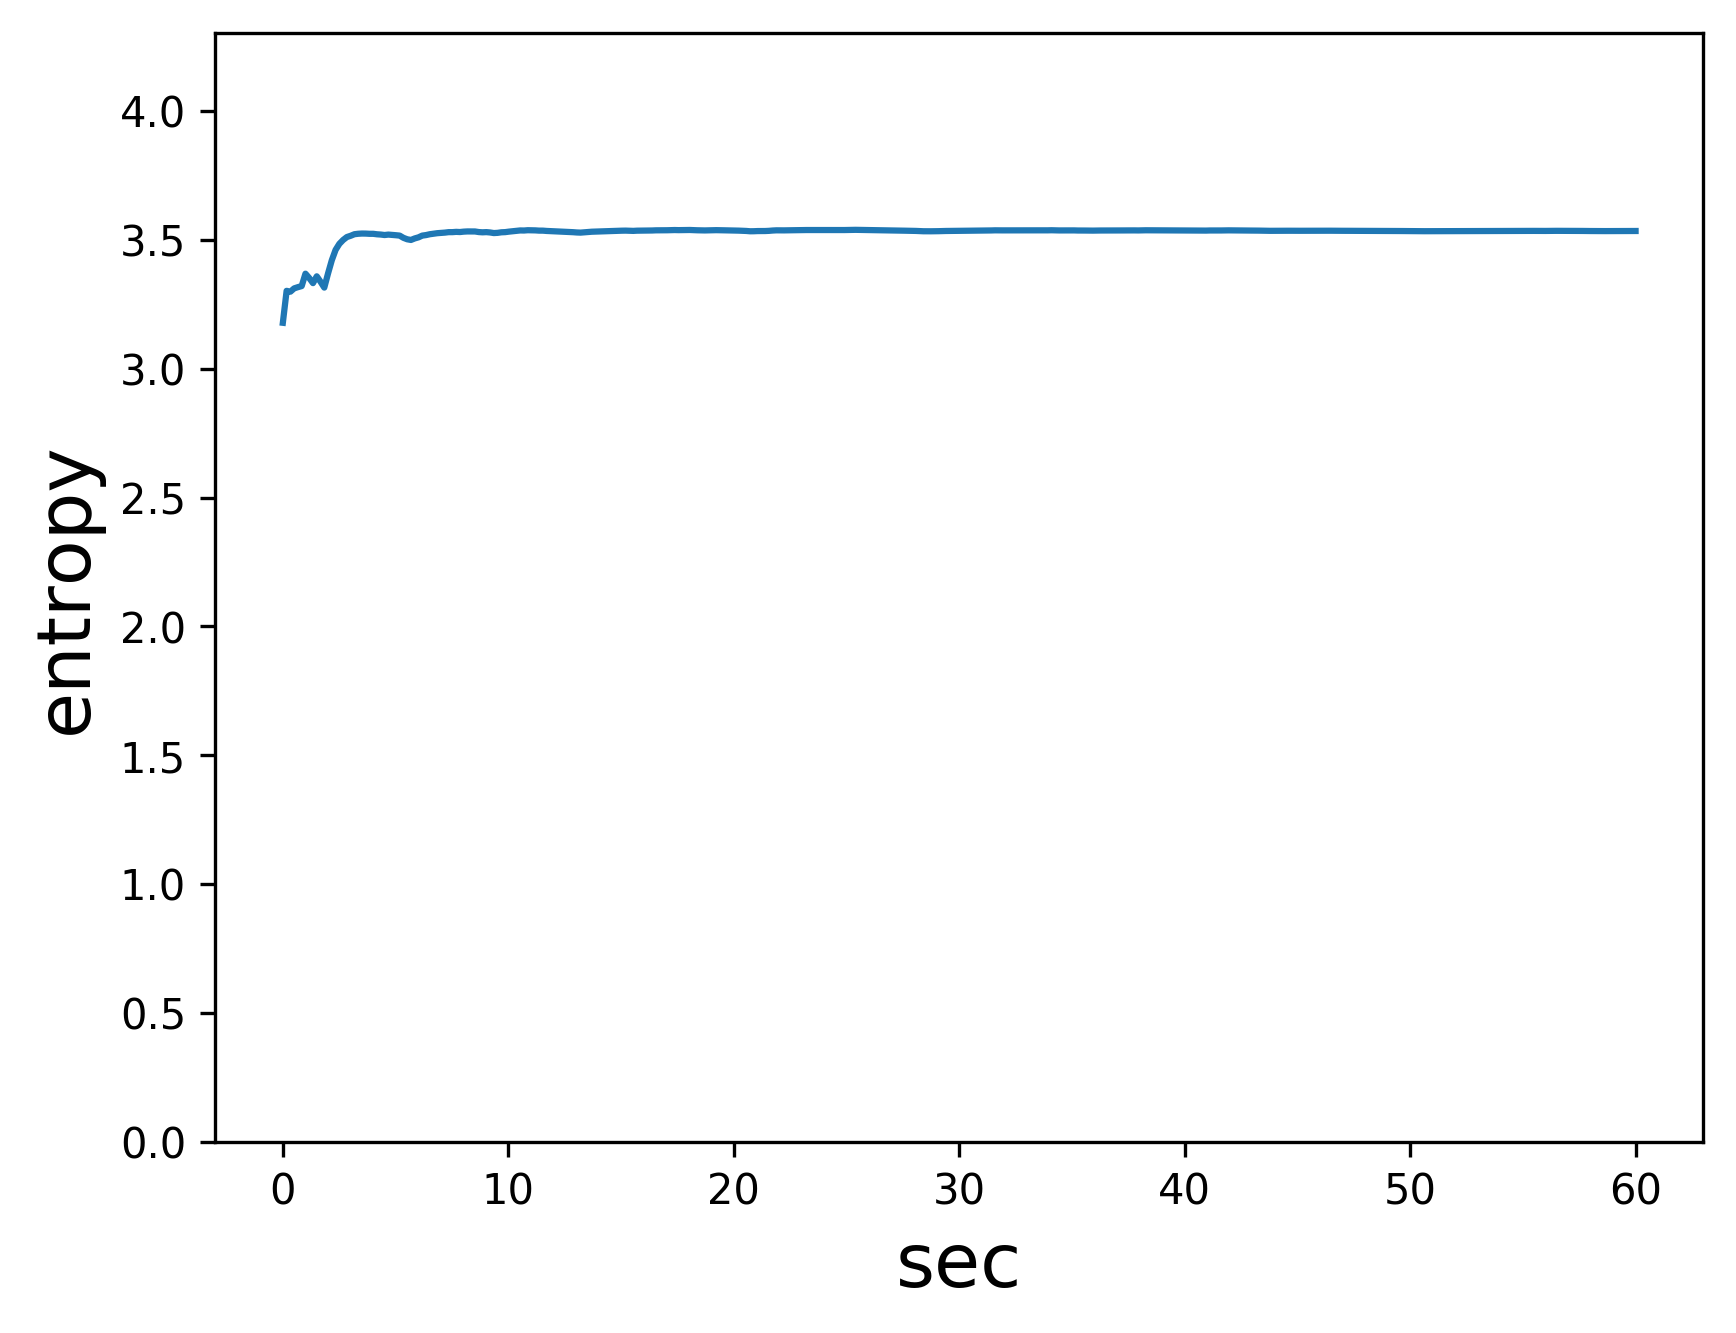
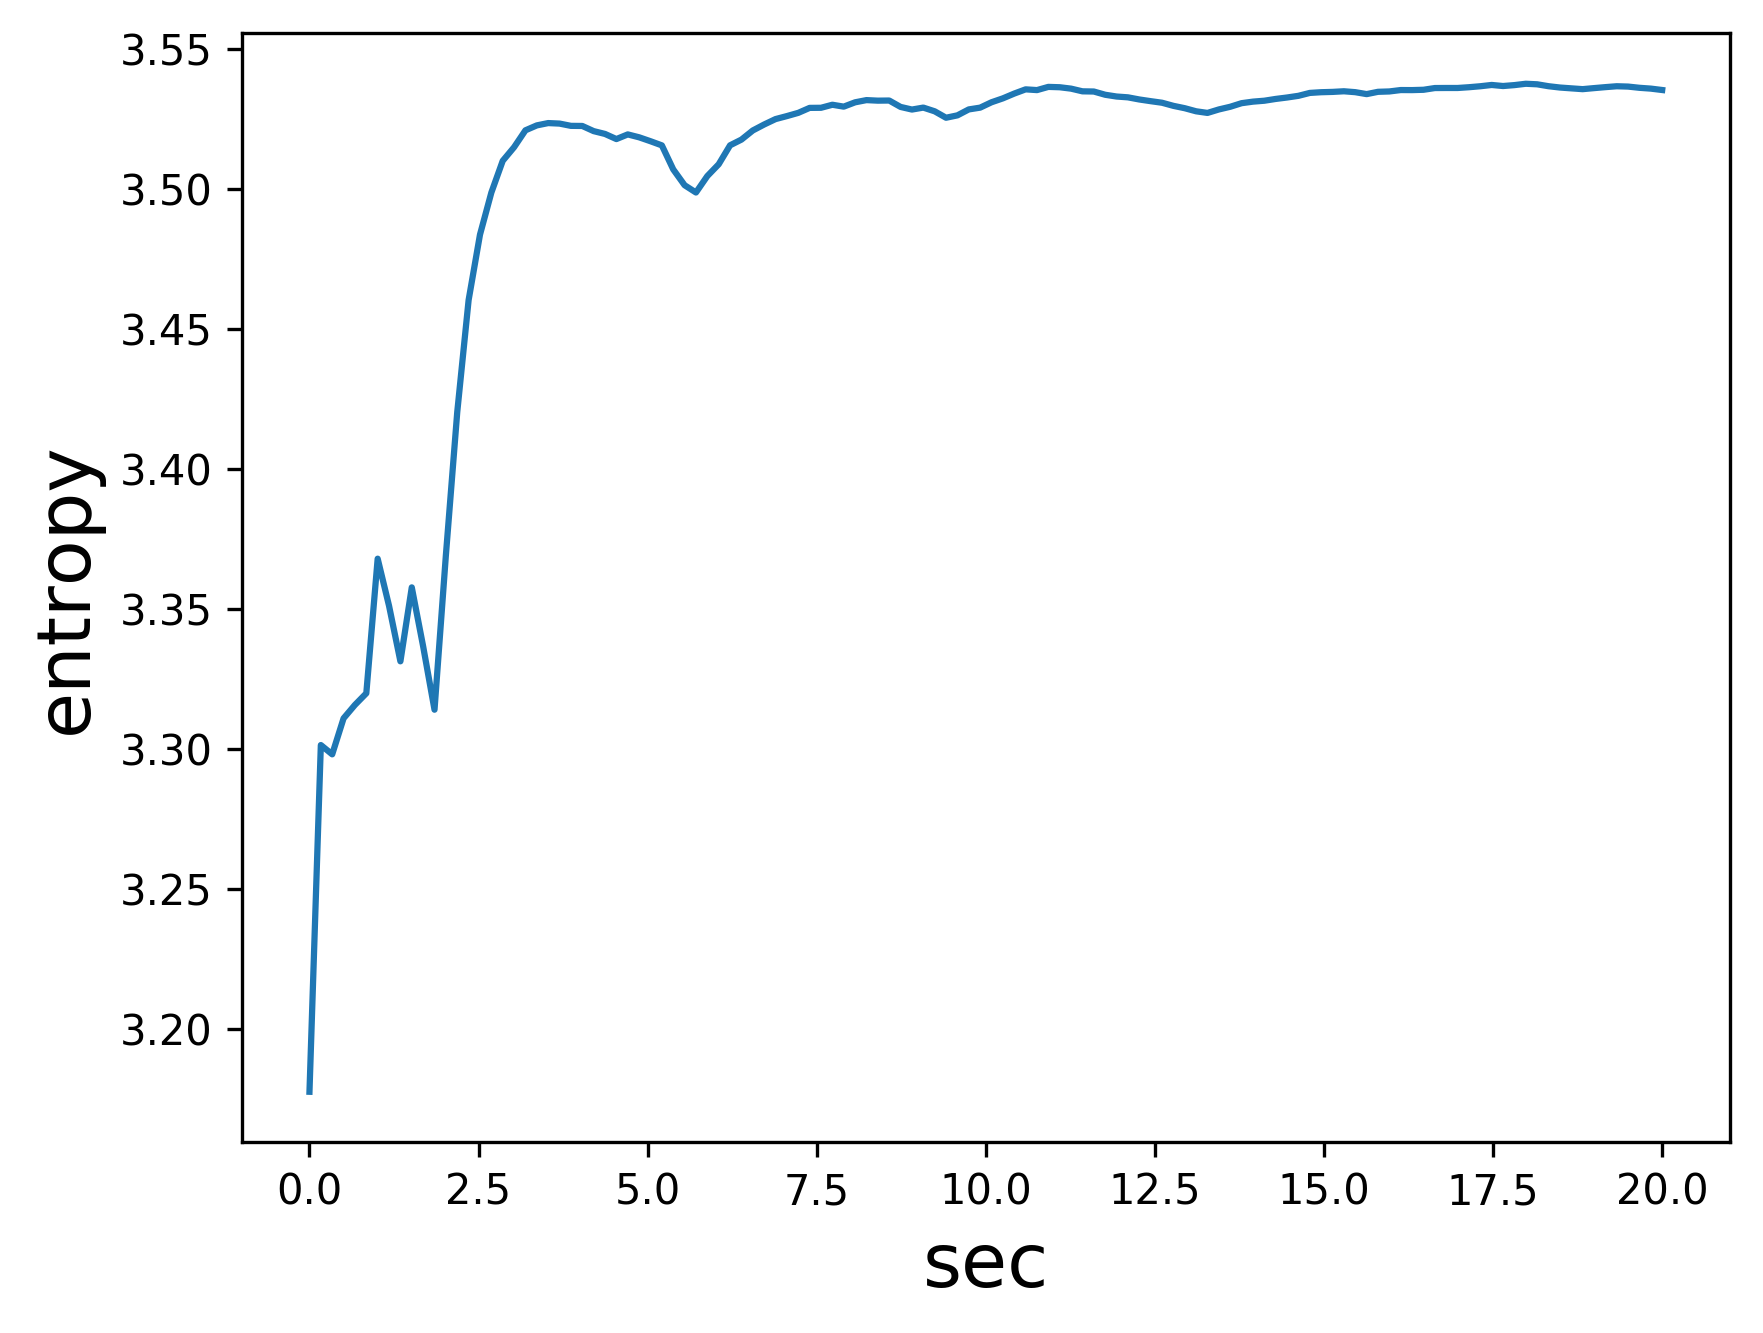
test

diff --git a/kullback_leibler_divergence.py b/kullback_leibler_divergence.py
@@ -110,13 +110,10 @@ def save_2d(data, name, xlabel, ylabel, directory, time):
     plt.xlabel(xlabel, fontsize = 18)
     plt.ylabel(ylabel, fontsize = 18)
     plt.ylim([0,4.3])
-    if time:
-        scale = int(np.ceil(float(len(data))/60))
-        start = time[0] * scale
-        end = time[1] * scale
-        plt.plot(np.linspace(time[0], time[1], end - start), data[slice(start, end)])
-    else:
-        plt.plot(np.linspace(0, 60, len(data)), data)
+    scale = int(np.ceil(float(len(data))/60))
+    start = time[0] * scale
+    end = time[1] * scale
+    plt.plot(np.linspace(time[0], time[1], end - start), data[slice(start, end)])
 
     plt.savefig(directory + name + EXT_PNG, dpi = 300, bbox_inches = "tight")
     plt.close()
@@ -130,7 +127,7 @@ def kullback_leibler_divergence(optflow_dist, motion_dist):
     for tmp in non_zero_motion_dist:
         res += np.sum(non_zero_optflow_dist * np.log2(non_zero_optflow_dist) -
                       non_zero_optflow_dist * np.log2(tmp))
-    return res / len(motion_dist)
+    return res 
 
 def default_preprocess(x, y):
     return x, y
@@ -164,14 +161,12 @@ def to_entropy(data):
         res.append(-np.sum(tmp[np.where(tmp > 0)[0]] * np.log2(tmp[np.where(tmp > 0)[0]])))
     return res
 
-def to_entropy_cumlative(data)
+def to_cumulative(data):
     res = []
-
-    ent = 0
+    _sum = 0
     for tmp in data:
-        tmp = np.asarray(tmp)
-        ent += -np.sum(tmp[np.where(tmp > 0)[0]] * np.log2(tmp[np.where(tmp > 0)[0]]))
-        res.append(ent)
+        _sum += tmp
+        res.append(_sum)
     return res
 
 optflow_dist_list = load_video_data_dir()

diff --git a/preprocess_video_data.py b/preprocess_video_data.py
@@ -9,7 +9,7 @@ from etaprogress.progress import ProgressBar
 """Previous version of Kullback Leivier Divergence(KLD).
 
 This module calculate real values of KLD of optical flow with motion platform vector. See
-https://en.wikipedia.org/wiki/Kullback–Leibler_divergence.
+https://en.wikipedia.org/wiki/Kullback-Leibler_divergence.
 
 Examples:
     Nope.
@@ -97,11 +97,11 @@ def capture_to_optflow(cap):
     while frame_num < frame_max:
         ret, frame = cap.read()
 
-        if frame_num % 10 == 1:
+        if frame_num % 20 == 19:
             gray = cv2.cvtColor(frame[OPT_FLOW_REGION], cv2.COLOR_BGR2GRAY)
             optical_flows.append(
                 cv2.calcOpticalFlowFarneback(prevgray, gray, None, 0.5, 4, 43, 5, 7, 1.5, 0))
-        if frame_num % 10 == 0:
+        if frame_num % 20 == 0:
             prevgray = cv2.cvtColor(frame[OPT_FLOW_REGION], cv2.COLOR_BGR2GRAY)
         bar.numerator = tick
         print(bar, end = '\r')
@@ -122,7 +122,7 @@ def optflow_to_hist(optical_flows,
            optical_flows:
 
        Returns:
-           probability of optical flow(12 * 5): sum-upped probability
+           probability of optical flow(12 * 5): sumupped probability
 
        TODO:
            *parallelization
